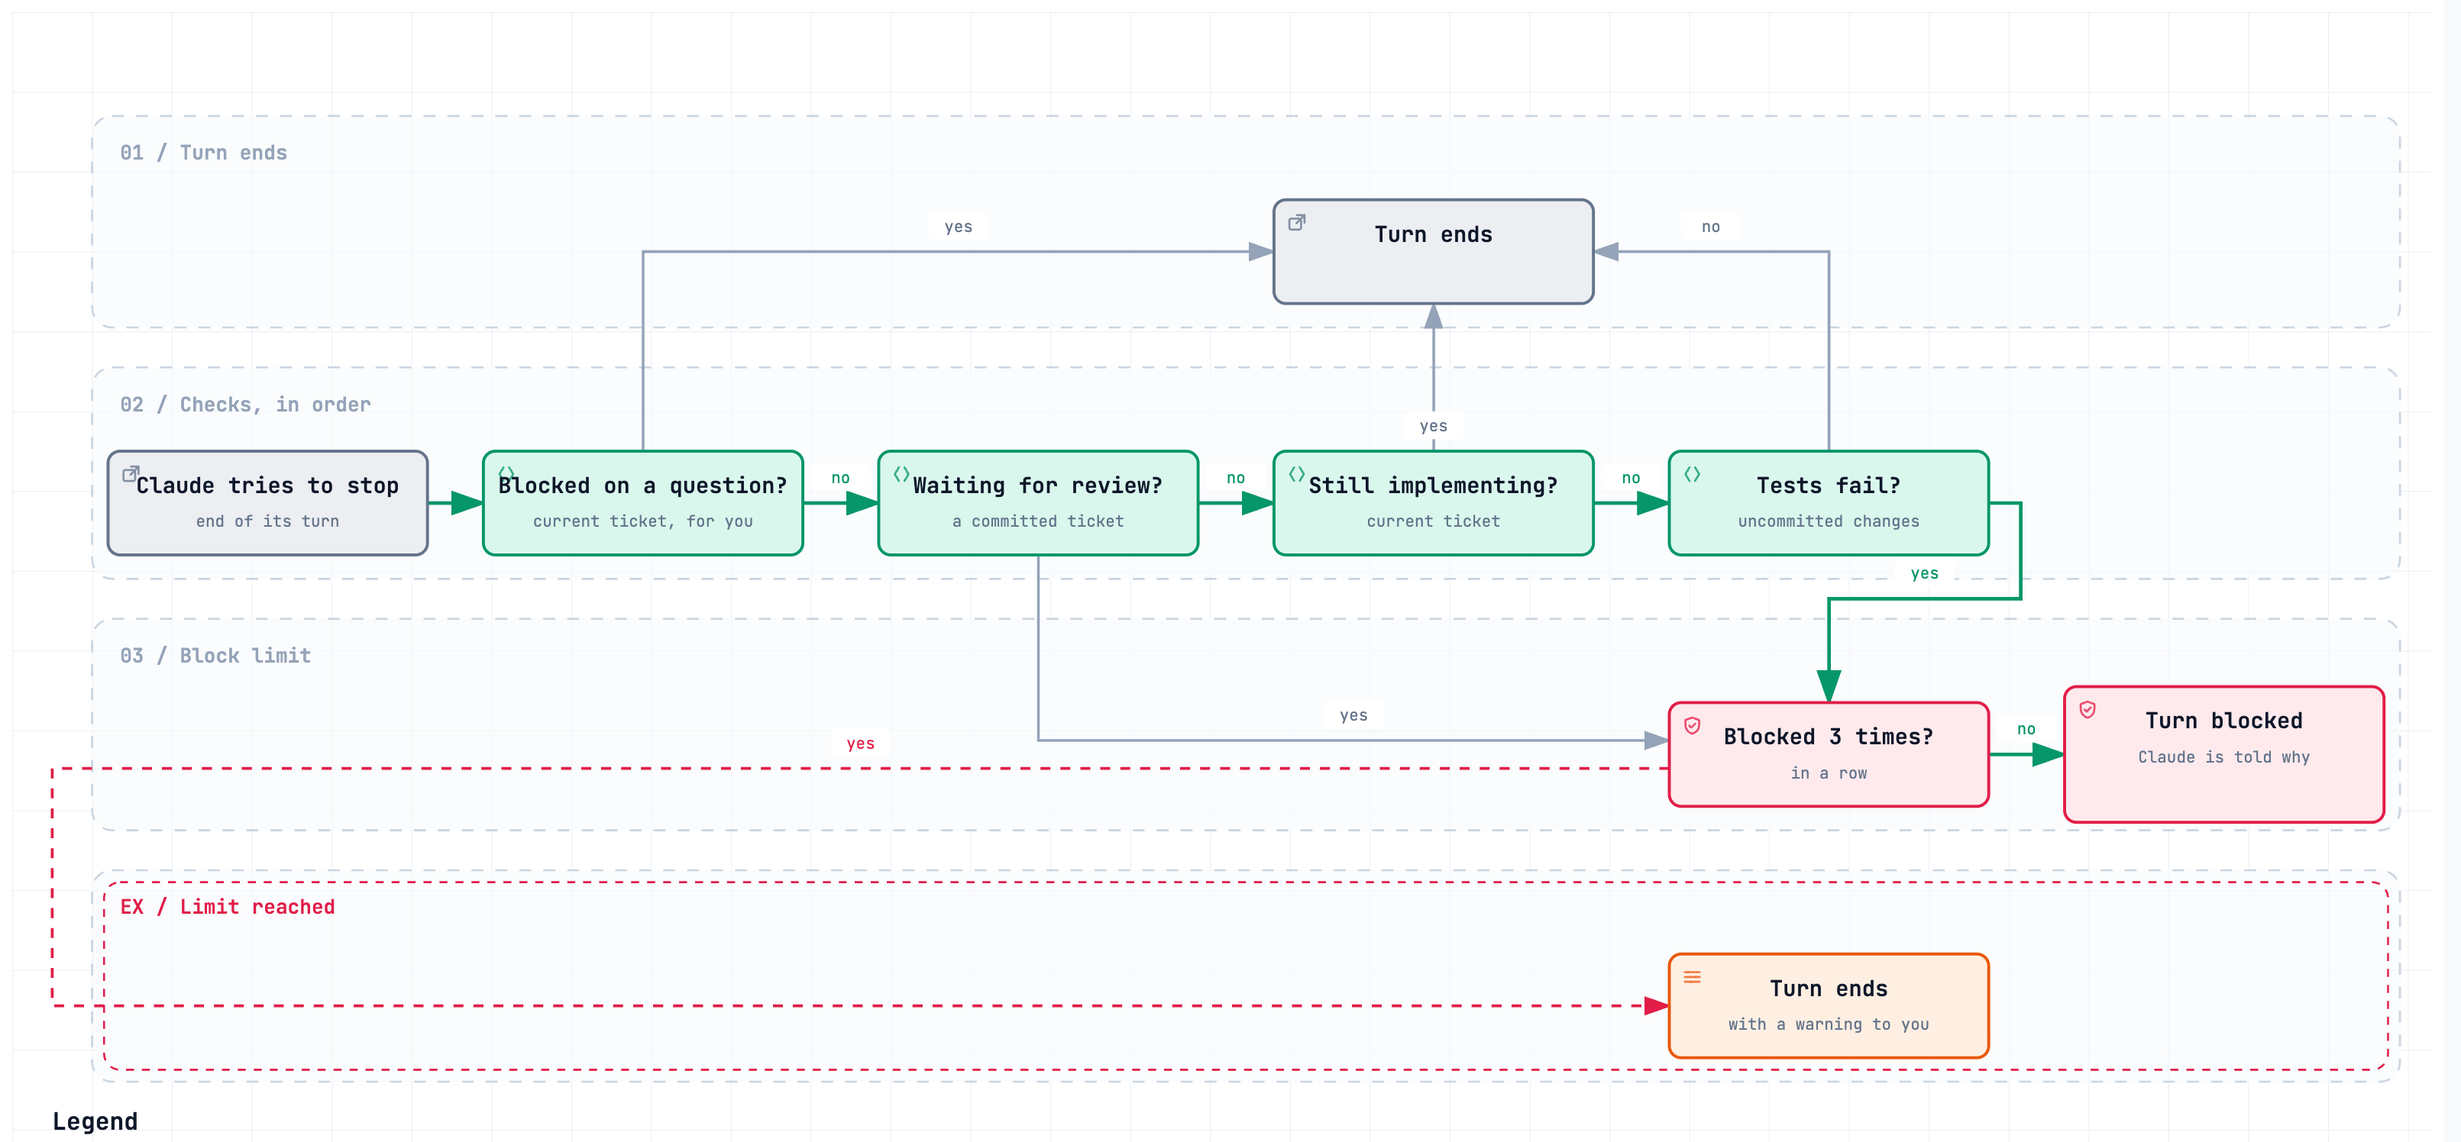
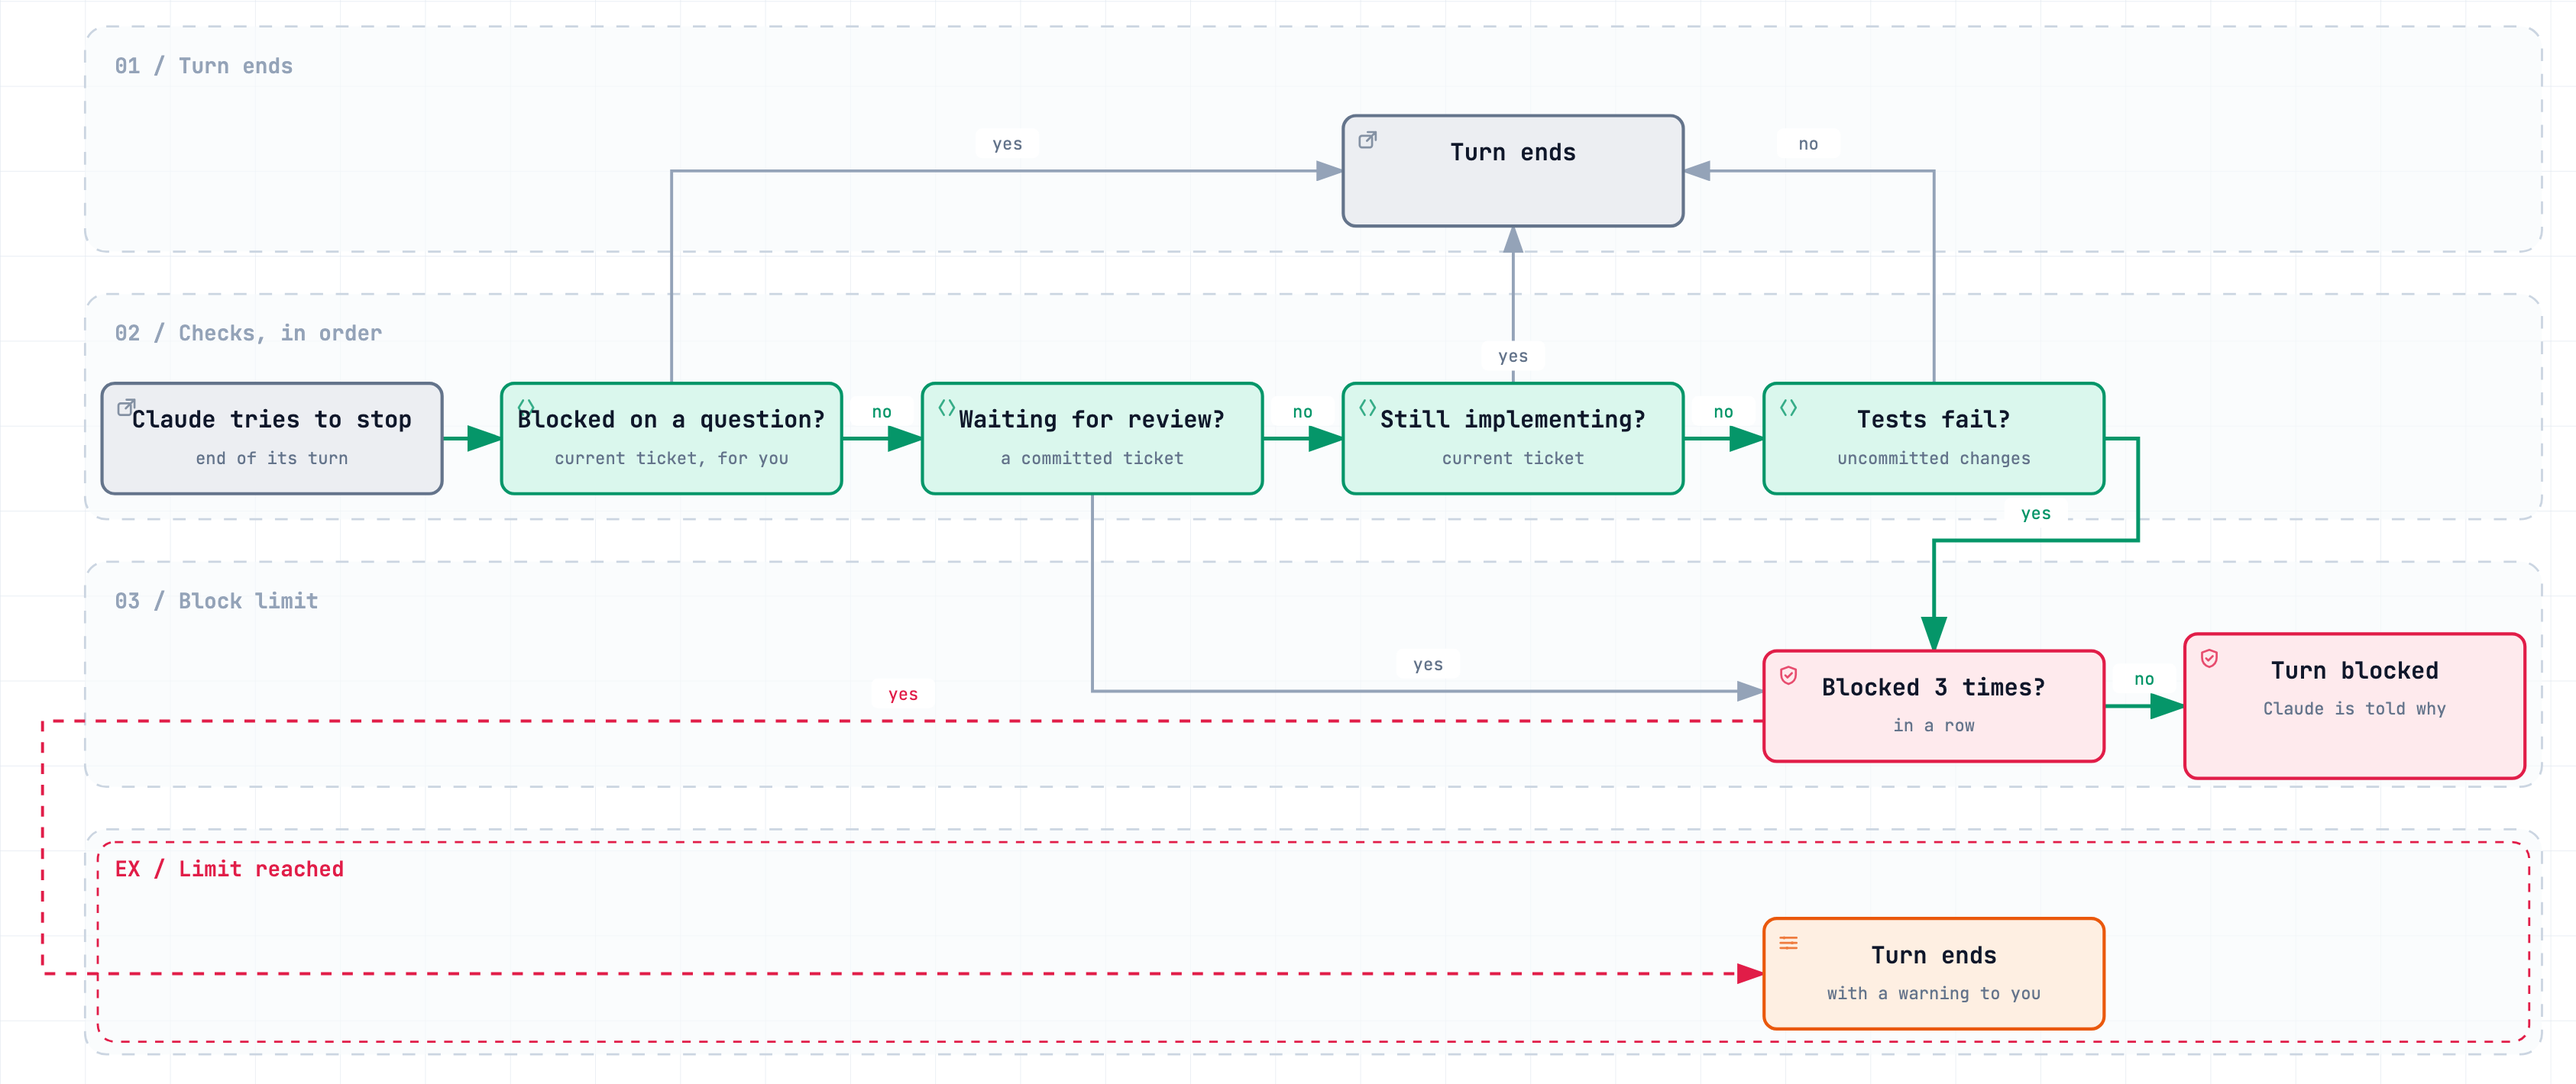
docs: dark-mode diagrams, and legends in supermatt's own terms
Every diagram now has a light and a dark capture, paired in <picture> elements
so GitHub shows the one matching the reader's theme. The pipeline legend reads
Stage / Pause / You instead of the diagram tool's generic kinds; the other four
hide a legend that only repeated the node labels.

diff --git a/README.md b/README.md
@@ -22,7 +22,10 @@ I built it because I needed it: brain injuries from military service left me wit
   <b><a href="#docs-and-contributing">Docs</a></b>
 </p>
 
-![The supermatt pipeline: grill, spec and tickets, a pause, then test, commit and review for each ticket, verify, a second pause, and finish](docs/images/pipeline.png)
+<picture>
+  <source media="(prefers-color-scheme: dark)" srcset="docs/images/pipeline-dark.png">
+  <img alt="The supermatt pipeline: grill, spec and tickets, a pause, then test, commit and review for each ticket, verify, a second pause, and finish" src="docs/images/pipeline.png">
+</picture>
 
 *The pipeline `/supermatt:run` drives. The red boxes marked Pause are the two default pauses, where Claude summarises the last stage and waits for your go-ahead. Both pauses are [options](docs/configuration.md#pipeline-and-other-options).*
 
@@ -252,7 +255,10 @@ Each repo keeps its options in `.supermatt/config.json`, which you commit so the
 
 The config names a command that the hooks run on their own, so supermatt acts on a repo's config only after this machine has approved it. Without that check, cloning a repo could make Claude Code run any command the repo's author chose, the next time Claude commits or ends a turn.
 
-![Config trust: configs written by supermatt init are trusted, configs arriving by clone or pull stay off until you run supermatt trust](docs/images/trust.png)
+<picture>
+  <source media="(prefers-color-scheme: dark)" srcset="docs/images/trust-dark.png">
+  <img alt="Config trust: configs written by supermatt init are trusted, configs arriving by clone or pull stay off until you run supermatt trust" src="docs/images/trust.png">
+</picture>
 
 Trust is exact: it pins a hash of the config, so any change made outside `supermatt config` has to be approved again. It covers the `test_command` text, not the code that command runs, so review an untrusted branch before working on it with the guardrails on. The guardrails are not a sandbox.
 

diff --git a/docs/configuration.md b/docs/configuration.md
@@ -10,7 +10,10 @@ Each repo keeps its options in `.supermatt/config.json`, which you commit so the
 
 The guardrails work from each ticket's state, which the skills record as they go.
 
-![Ticket states: implementing, needs-review, done, and blocked while Claude waits on your answer](images/ticket-states.png)
+<picture>
+  <source media="(prefers-color-scheme: dark)" srcset="images/ticket-states-dark.png">
+  <img alt="Ticket states: implementing, needs-review, done, and blocked while Claude waits on your answer" src="images/ticket-states.png">
+</picture>
 
 *The state supermatt records for each ticket. `blocked` means Claude is waiting on you; once you answer, the ticket returns to whichever state it came from.*
 
@@ -41,7 +44,10 @@ A ticket's id is its local file number (`01`) or its issue number on a hosted tr
 
 This is the check that stops Claude from ending a turn with work unfinished.
 
-![The end-of-turn check: the questions supermatt asks before letting Claude end its turn](images/end-of-turn.png)
+<picture>
+  <source media="(prefers-color-scheme: dark)" srcset="images/end-of-turn-dark.png">
+  <img alt="The end-of-turn check: the questions supermatt asks before letting Claude end its turn" src="images/end-of-turn.png">
+</picture>
 
 *Shown with `review_after_ticket` and `green_before_stop` at `block`. At `warn`, the turn ends with a warning to you instead of being blocked. Not shown: when the tests fail on exactly the files that failed at the last end of turn, the turn ends with a warning instead of a second block.*
 

diff --git a/docs/cli.md b/docs/cli.md
@@ -4,7 +4,10 @@ The command-line reference. For the options it sets, see [Configuration](configu
 
 The skills and hooks work through `plugin/bin/supermatt`, a single standard-library Python script that reads your options, records progress and runs your tests.
 
-![How the pieces fit: skills and hooks call the supermatt command, which reads the config, writes the state file and runs your test command](images/command.png)
+<picture>
+  <source media="(prefers-color-scheme: dark)" srcset="images/command-dark.png">
+  <img alt="How the pieces fit: skills and hooks call the supermatt command, which reads the config, writes the state file and runs your test command" src="images/command.png">
+</picture>
 
 When the plugin is enabled, it is on the `PATH` of Claude's Bash tool, so Claude can run any of these commands when you ask. It is not on your own terminal's `PATH`. To run it there, call `python3 <plugin dir>/bin/supermatt <command>` from inside a repo, where `<plugin dir>` is `~/.claude/plugins/cache/supermatt/supermatt/<version>` for a marketplace install, or `<clone>/plugin` for a local clone or link. If unsure, ask Claude to run `command -v supermatt` for the full path. It acts on the git repo that contains the current directory.
 

diff --git a/docs/security.md b/docs/security.md
@@ -4,7 +4,10 @@ What supermatt runs on your machine, when, and what it cannot protect you from. 
 
 The config names a command that the hooks run on their own, so supermatt acts on a repo's config only after this machine has approved it. Without that check, cloning a repo could make Claude Code run any command the repo's author chose, the next time Claude commits or ends a turn.
 
-![Config trust: configs written by supermatt init are trusted, configs arriving by clone or pull stay off until you run supermatt trust](images/trust.png)
+<picture>
+  <source media="(prefers-color-scheme: dark)" srcset="images/trust-dark.png">
+  <img alt="Config trust: configs written by supermatt init are trusted, configs arriving by clone or pull stay off until you run supermatt trust" src="images/trust.png">
+</picture>
 
 *Trust records the repo's path and a SHA-256 hash of the config's exact contents, so any change made outside `supermatt config` has to be approved again.*
 

diff --git a/CONTRIBUTING.md b/CONTRIBUTING.md
@@ -36,4 +36,4 @@ The tests drive `plugin/bin/supermatt` the way the hooks call it, in temporary g
 
 ## Diagrams
 
-The diagram sources are the JSON specs in `docs/diagrams/`. The images in `docs/images/` are light-theme captures of them.
+The diagram sources are the JSON specs in `docs/diagrams/`. Each has two captures in `docs/images/`: `<name>.png` (light) and `<name>-dark.png`, which the docs pair in a `<picture>` element so GitHub shows the one matching the reader's theme. To change a diagram, edit its spec, render it with Archify's `render <type> <name>.json <name>.html --quality showcase` command (the HTML is gitignored), open the HTML with `?theme=light` and `?theme=dark`, and capture the diagram at 2x, cropped to its content.

diff --git a/AGENTS.md b/AGENTS.md
@@ -47,8 +47,8 @@ for why.
   `claude plugin marketplace add`.
 - `docs/configuration.md`, `docs/security.md`, `docs/cli.md`, `CONTRIBUTING.md`: the
   reference docs the README links to; keep the README to the overview.
-- `docs/diagrams/*.json`: the README diagram sources; `docs/images/*.png` are
-  their light-theme captures.
+- `docs/diagrams/*.json`: the README diagram sources; `docs/images/<name>.png` and
+  `<name>-dark.png` are their light and dark captures, paired in `<picture>` elements.
 
 ## Commands
 
